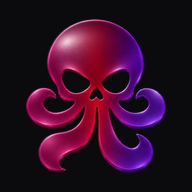
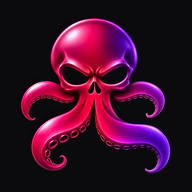
Update skull-octopus emblem across mafium.com and Oddmeter kick drum
- Swap in satin-chrome sculpted skull-octopus (anatomical nasal septum, downward-arching tentacles, gleaming rim suction cups) across hero, navbar squircle, PWA, apple-touch, and OG card
- Regenerate outlined transparent favicon.ico (16/32/48) and favicon-32.png with crisp black outline and sockets
- Retrace mafium-mark.svg, mafium-mark-48.png, and oddmeter/icon.svg to the new silhouette
- Redraw Oddmeter 21x22 kick drum pixel crest (uncolored idle, crimson on kick hit) and bump asset cache-bust to ?v=7 / drummer9-brand7

diff --git a/index.html b/index.html
@@ -20,21 +20,21 @@
   <meta property="og:title" content="Saad MAFiA — mafium">
   <meta property="og:description" content="Saad MAFiA — Music, Science, Games, and Photography.">
   <meta property="og:url" content="https://mafium.com/">
-  <meta property="og:image" content="https://mafium.com/images/brand/og-image.png?v=5">
+  <meta property="og:image" content="https://mafium.com/images/brand/og-image.png?v=7">
   <meta property="og:image:type" content="image/png">
   <meta property="og:image:width" content="1200">
   <meta property="og:image:height" content="630">
   <meta property="og:image:alt" content="Mafium skull-octopus emblem beside Saad MAFiA">
   <meta name="twitter:card" content="summary_large_image">
   <title>Saad MAFiA — mafium</title>
-  <link rel="icon" href="./images/brand/favicon-32.png?v=6" type="image/png" sizes="32x32">
-  <link rel="icon" href="./favicon.ico?v=6" sizes="48x48">
-  <link rel="apple-touch-icon" href="./images/brand/apple-touch-icon.png?v=5" sizes="180x180">
+  <link rel="icon" href="./images/brand/favicon-32.png?v=7" type="image/png" sizes="32x32">
+  <link rel="icon" href="./favicon.ico?v=7" sizes="48x48">
+  <link rel="apple-touch-icon" href="./images/brand/apple-touch-icon.png?v=7" sizes="180x180">
   <link rel="manifest" href="./site.webmanifest">
   <link rel="preconnect" href="https://fonts.googleapis.com">
   <link rel="preconnect" href="https://fonts.gstatic.com" crossorigin>
   <link rel="stylesheet" href="https://fonts.googleapis.com/css2?family=Lexend:wght@300..700&family=Metamorphous&display=swap">
-  <link rel="stylesheet" href="./home.css?v=19">
+  <link rel="stylesheet" href="./home.css?v=20">
   <script type="module" src="./home.js?v=15"></script>
 </head>
 <body>
@@ -81,12 +81,12 @@
       <div class="hero-copy">
         <div class="hero-emblem-wrap">
           <picture>
-            <source srcset="./images/brand/mafium-hero.avif 1x, ./images/brand/mafium-hero-2x.avif 2x" type="image/avif">
-            <source srcset="./images/brand/mafium-hero.webp 1x, ./images/brand/mafium-hero-2x.webp 2x" type="image/webp">
+            <source srcset="./images/brand/mafium-hero.avif?v=7 1x, ./images/brand/mafium-hero-2x.avif?v=7 2x" type="image/avif">
+            <source srcset="./images/brand/mafium-hero.webp?v=7 1x, ./images/brand/mafium-hero-2x.webp?v=7 2x" type="image/webp">
             <img
               class="hero-emblem"
-              src="./images/brand/mafium-hero.png"
-              srcset="./images/brand/mafium-hero.png 1x, ./images/brand/mafium-hero-2x.png 2x"
+              src="./images/brand/mafium-hero.png?v=7"
+              srcset="./images/brand/mafium-hero.png?v=7 1x, ./images/brand/mafium-hero-2x.png?v=7 2x"
               alt="Mafium skull-octopus emblem"
               width="240"
               height="240"

diff --git a/home.css b/home.css
@@ -233,14 +233,14 @@ a { color: inherit; }
   block-size: 30px;
   flex-shrink: 0;
   border-radius: 7px;
-  background-image: url("./images/brand/mafium-icon.png");
+  background-image: url("./images/brand/mafium-icon.png?v=7");
   background-image: image-set(
-    url("./images/brand/mafium-icon.avif") type("image/avif") 1x,
-    url("./images/brand/mafium-icon-2x.avif") type("image/avif") 2x,
-    url("./images/brand/mafium-icon.webp") type("image/webp") 1x,
-    url("./images/brand/mafium-icon-2x.webp") type("image/webp") 2x,
-    url("./images/brand/mafium-icon.png") type("image/png") 1x,
-    url("./images/brand/mafium-icon-2x.png") type("image/png") 2x
+    url("./images/brand/mafium-icon.avif?v=7") type("image/avif") 1x,
+    url("./images/brand/mafium-icon-2x.avif?v=7") type("image/avif") 2x,
+    url("./images/brand/mafium-icon.webp?v=7") type("image/webp") 1x,
+    url("./images/brand/mafium-icon-2x.webp?v=7") type("image/webp") 2x,
+    url("./images/brand/mafium-icon.png?v=7") type("image/png") 1x,
+    url("./images/brand/mafium-icon-2x.png?v=7") type("image/png") 2x
   );
   background-size: contain;
   background-repeat: no-repeat;
@@ -1076,8 +1076,8 @@ section[tabindex="-1"]:focus { outline: none; }
   block-size: 16px;
   flex-shrink: 0;
   background-color: currentColor;
-  -webkit-mask: url("./images/brand/mafium-mark.svg") center / contain no-repeat;
-  mask: url("./images/brand/mafium-mark.svg") center / contain no-repeat;
+  -webkit-mask: url("./images/brand/mafium-mark.svg?v=7") center / contain no-repeat;
+  mask: url("./images/brand/mafium-mark.svg?v=7") center / contain no-repeat;
   opacity: 0.85;
 }
 .footer-links { display: flex; flex-wrap: wrap; gap: 18px; }

diff --git a/oddmeter/drummer.js b/oddmeter/drummer.js
@@ -25,30 +25,30 @@ const VH = 80;
 const MIN_KIT_VW = 172;
 
 // Mafium skull-octopus crest for the kick drum head: a 21x22 pixel silhouette
-// of the brand emblem. Eye sockets, nose and curl holes let the drumhead show through.
+// of the brand emblem. Eye sockets, dual nostrils and tentacle arches let the drumhead show through.
 const CREST_ROWS = [
   '........#####........',
   '......#########......',
   '.....###########.....',
   '....#############....',
-  '...###############...',
-  '...###############...',
-  '...###############...',
-  '...##..#######..##...',
-  '...##....###....##...',
-  '....##..#####..##....',
-  '.###.####...####.###.',
-  '###..#####.#####..###',
-  '###....#######....###',
-  '#####################',
-  '.######.#####.######.',
-  '...##..###.##...##...',
-  '....######.###.......',
-  '..#######..###...#...',
-  '..######..####.###...',
-  '..#####....########..',
-  '...##.......######...',
-  '....##.......####....',
+  '....#############....',
+  '....#############....',
+  '....#############....',
+  '....#..#######..#....',
+  '....#....###....#....',
+  '.....##..###..##.....',
+  '..###.###.#.###.###..',
+  '.###################.',
+  '.###..####.####..###.',
+  '.##..#####.#####..##.',
+  '..#..####...####..#..',
+  '....#####...#####....',
+  '...#####.....######..',
+  '..#####.......######.',
+  '..####.........#####.',
+  '..###....##.....####.',
+  '...#######.....####..',
+  '....#####......###...',
 ];
 
 function drawCrest(ctx, cx, cy, color) {

diff --git a/oddmeter/index.html b/oddmeter/index.html
@@ -19,9 +19,9 @@
   <meta property="og:image:alt" content="Oddmeter: a pixel drummer above a three-row beat and subdivision grid.">
   <meta name="twitter:card" content="summary_large_image">
   <link rel="manifest" href="./manifest.webmanifest">
-  <link rel="icon" href="../images/brand/favicon-32.png?v=6" type="image/png" sizes="32x32">
-  <link rel="icon" href="../favicon.ico?v=6" sizes="48x48">
-  <link rel="apple-touch-icon" href="../images/brand/apple-touch-icon.png?v=5" sizes="180x180">
+  <link rel="icon" href="../images/brand/favicon-32.png?v=7" type="image/png" sizes="32x32">
+  <link rel="icon" href="../favicon.ico?v=7" sizes="48x48">
+  <link rel="apple-touch-icon" href="../images/brand/apple-touch-icon.png?v=7" sizes="180x180">
   <link rel="preconnect" href="https://fonts.googleapis.com">
   <link rel="preconnect" href="https://fonts.gstatic.com" crossorigin>
   <link rel="stylesheet" href="https://fonts.googleapis.com/css2?family=Lexend:wght@400;500;600;700&display=swap">
@@ -30,8 +30,8 @@
       document.documentElement.classList.add('oddmeter-embed');
     }
   </script>
-  <link rel="stylesheet" href="./styles.css?v=drummer6-brand6">
-  <script type="module" src="./app.js?v=drummer8-brand5"></script>
+  <link rel="stylesheet" href="./styles.css?v=drummer6-brand7">
+  <script type="module" src="./app.js?v=drummer9-brand7"></script>
 </head>
 <body>
   <header class="site-header">

diff --git a/oddmeter/styles.css b/oddmeter/styles.css
@@ -186,14 +186,14 @@ select option { background: #191c24; color: var(--text); }
   height: 28px;
   flex-shrink: 0;
   border-radius: 7px;
-  background-image: url("../images/brand/mafium-icon.png");
+  background-image: url("../images/brand/mafium-icon.png?v=7");
   background-image: image-set(
-    url("../images/brand/mafium-icon.avif") type("image/avif") 1x,
-    url("../images/brand/mafium-icon-2x.avif") type("image/avif") 2x,
-    url("../images/brand/mafium-icon.webp") type("image/webp") 1x,
-    url("../images/brand/mafium-icon-2x.webp") type("image/webp") 2x,
-    url("../images/brand/mafium-icon.png") type("image/png") 1x,
-    url("../images/brand/mafium-icon-2x.png") type("image/png") 2x
+    url("../images/brand/mafium-icon.avif?v=7") type("image/avif") 1x,
+    url("../images/brand/mafium-icon-2x.avif?v=7") type("image/avif") 2x,
+    url("../images/brand/mafium-icon.webp?v=7") type("image/webp") 1x,
+    url("../images/brand/mafium-icon-2x.webp?v=7") type("image/webp") 2x,
+    url("../images/brand/mafium-icon.png?v=7") type("image/png") 1x,
+    url("../images/brand/mafium-icon-2x.png?v=7") type("image/png") 2x
   );
   background-size: contain;
   background-repeat: no-repeat;

diff --git a/zeta/index.html b/zeta/index.html
@@ -5,9 +5,9 @@
 <meta name="viewport" content="width=device-width, initial-scale=1, viewport-fit=cover">
 <meta name="description" content="Shift the Riemann zeta function so the critical line sits on the imaginary axis, watch the grid morph into the output, and check the zeros numerically.">
 <title>Zeta Shift Lab</title>
-<link rel="icon" href="../images/brand/favicon-32.png?v=6" type="image/png" sizes="32x32">
-<link rel="icon" href="../favicon.ico?v=6" sizes="48x48">
-<link rel="apple-touch-icon" href="../images/brand/apple-touch-icon.png?v=5" sizes="180x180">
+<link rel="icon" href="../images/brand/favicon-32.png?v=7" type="image/png" sizes="32x32">
+<link rel="icon" href="../favicon.ico?v=7" sizes="48x48">
+<link rel="apple-touch-icon" href="../images/brand/apple-touch-icon.png?v=7" sizes="180x180">
 <link rel="preconnect" href="https://fonts.googleapis.com">
 <link rel="preconnect" href="https://fonts.gstatic.com" crossorigin>
 <link rel="stylesheet" href="https://fonts.googleapis.com/css2?family=IBM+Plex+Mono:wght@400;500&family=IBM+Plex+Sans:ital,wght@0,400;0,500;0,600;1,400&family=STIX+Two+Text:ital,wght@0,500;0,600;1,500&display=swap">

diff --git a/oddmeter/app.js b/oddmeter/app.js
@@ -3,7 +3,7 @@ import { pulseSoundOptions, soundOptions } from './sounds.js?v=audio1';
 import { tempoBeats, rhythmPresets, parseGrouping, groupStarts, groupingChoices, editRhythmLane, snapshotBeat, pasteBeat, pasteBeats, moveBeat, insertBeat, insertBeats, deleteBeats } from './practice.js?v=delete1';
 import { readSettings, storageKey, defaultVolume, setupLinkPrefix, encodeSetupSnapshot, decodeSetupSnapshot, makeSetupLink, readSetupLink, makeIdeaLink, readIdeaParam } from './settings.js?v=delete1';
 import { authorNameFromUser, createFirebaseCloudAdapter, createIdeaStore, defaultGuestName, isDefaultIdeaTitle, orderIdeasForDisplay, readSavedAuthor, readSavedTitle, writeSavedAuthor, writeSavedTitle } from './ideas.js?v=ideas-order3';
-import { createDrummerStage, drummerStorageKey } from './drummer.js?v=drummer8-brand5';
+import { createDrummerStage, drummerStorageKey } from './drummer.js?v=drummer9-brand7';
 
 const byId = (id) => document.getElementById(id);
 const ui = {

diff --git a/chainreaction/privacy-policy.html b/chainreaction/privacy-policy.html
@@ -4,9 +4,9 @@
 <meta charset="utf-8">
 <meta name="viewport" content="width=device-width, initial-scale=1">
 <title>Chain Reaction — Privacy Policy</title>
-<link rel="icon" href="../images/brand/favicon-32.png?v=6" type="image/png" sizes="32x32">
-<link rel="icon" href="../favicon.ico?v=6" sizes="48x48">
-<link rel="apple-touch-icon" href="../images/brand/apple-touch-icon.png?v=5" sizes="180x180">
+<link rel="icon" href="../images/brand/favicon-32.png?v=7" type="image/png" sizes="32x32">
+<link rel="icon" href="../favicon.ico?v=7" sizes="48x48">
+<link rel="apple-touch-icon" href="../images/brand/apple-touch-icon.png?v=7" sizes="180x180">
 <style>
   :root { color-scheme: dark; }
   body {

diff --git a/save-firefox/index.html b/save-firefox/index.html
@@ -2,8 +2,8 @@
 <html>
     <head>
         <meta name="viewport" content="width=device-width, initial-scale=1.0, maximum-scale=1.0, user-scalable=no">
-        <link rel="icon" href="../images/brand/favicon-32.png?v=6" type="image/png" sizes="32x32">
-        <link rel="icon" href="../favicon.ico?v=6" sizes="48x48">
+        <link rel="icon" href="../images/brand/favicon-32.png?v=7" type="image/png" sizes="32x32">
+        <link rel="icon" href="../favicon.ico?v=7" sizes="48x48">
         <link rel="stylesheet" type="text/css" href="style.css">
         <link rel="preconnect" href="https://fonts.googleapis.com">
         <link rel="preconnect" href="https://fonts.gstatic.com" crossorigin>

diff --git a/privacy-policy.html b/privacy-policy.html
@@ -4,9 +4,9 @@
 <meta charset="utf-8">
 <meta name="viewport" content="width=device-width, initial-scale=1">
 <title>Chain Reaction — Privacy Policy</title>
-<link rel="icon" href="./images/brand/favicon-32.png?v=6" type="image/png" sizes="32x32">
-<link rel="icon" href="./favicon.ico?v=6" sizes="48x48">
-<link rel="apple-touch-icon" href="./images/brand/apple-touch-icon.png?v=5" sizes="180x180">
+<link rel="icon" href="./images/brand/favicon-32.png?v=7" type="image/png" sizes="32x32">
+<link rel="icon" href="./favicon.ico?v=7" sizes="48x48">
+<link rel="apple-touch-icon" href="./images/brand/apple-touch-icon.png?v=7" sizes="180x180">
 <style>
   :root { color-scheme: dark; }
   body {
